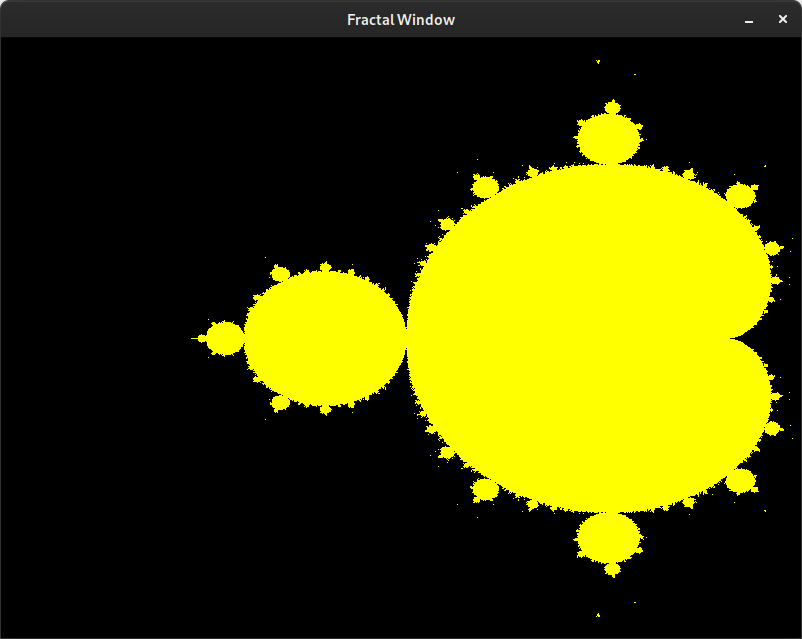
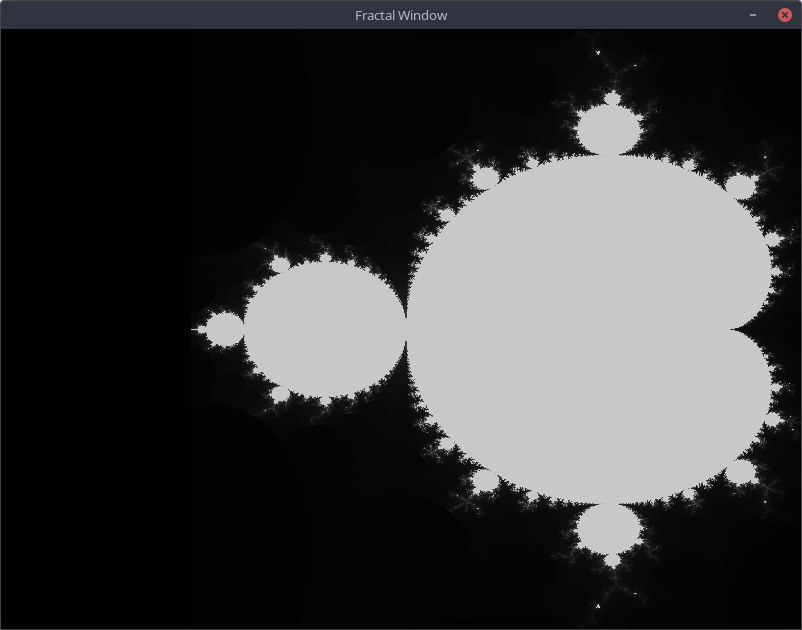
added gradient colouring

diff --git a/src/fractal.rs b/src/fractal.rs
@@ -4,13 +4,13 @@ use crate::complex::Complex;
 use sdl2::rect::Point;
 use std::thread;
 
-const NTHREADS: usize = 4;
+const NTHREADS: usize = 8;
 
 fn map_to_range(num: f32, from: (f32, f32), to: (f32, f32)) -> f32 {
     (num - from.0) * (to.1 - to.0) / (from.1 - from.0) + to.0
 }
 
-fn is_in_fractal(x: f32, y: f32) -> bool {
+fn is_in_fractal(x: f32, y: f32) -> u8 {
     let point = Complex::new(x, y);
 
     let mut z = Complex::new(0.0, 0.0);
@@ -20,25 +20,23 @@ fn is_in_fractal(x: f32, y: f32) -> bool {
         i += 1;
     }
 
-    z.abs() < 2.0
+    i
 }
 
-pub fn draw_fractal(width: usize, height: usize) -> Vec<Point> {
+pub fn draw_fractal(width: usize, height: usize) -> Vec<(Point, u8)> {
     let res = 1;
 
     let mut thread_handlers = Vec::new();
-    for i in 0..4 {
+    for i in 0..NTHREADS {
         thread_handlers.push(thread::spawn(move || {
             let mut points = Vec::new();
 
             // Vertical paritioning of points for multithreading
-            for _x in ((i * (width / NTHREADS))..((i + 1) * (width / NTHREADS))).step_by(res) {
-                for _y in (0..height).step_by(res) {
+            for _y in (0..height).step_by(res) {
+                for _x in ((i * (width / NTHREADS))..((i + 1) * (width / NTHREADS))).step_by(res) {
                     let x = map_to_range(_x as f32, (0.0, width as f32), (-2.00, 0.47));
                     let y = map_to_range((height - _y) as f32, (0.0, height as f32), (-1.12, 1.12));
-                    if is_in_fractal(x, y) {
-                        points.push(Point::new(_x as i32, (height - _y) as i32));
-                    }
+                    points.push((Point::new(_x as i32, (height - _y) as i32), is_in_fractal(x, y)));
                 }
             }
 

diff --git a/src/main.rs b/src/main.rs
@@ -44,7 +44,7 @@ fn main() {
         }
 
         // The rest of the game loop goes here...
-        canvas.set_draw_color(Color::RGB(255, 255, 0));
+        canvas.set_draw_color(Color::RGB(255, 255, 255));
 
         let before = std::time::SystemTime::now();
         let points = draw_fractal(WIDTH as usize, HEIGHT as usize);
@@ -53,8 +53,11 @@ fn main() {
             "Frame generation time: {}",
             after.duration_since(before).unwrap().as_secs_f32()
         );
-
-        canvas.draw_points(points.as_slice()).unwrap();
+        
+        for (point, iters) in points {
+            canvas.set_draw_color(Color::RGB(iters, iters, iters));
+            canvas.draw_point(point).unwrap();
+        }
         canvas.present();
     }
 }
